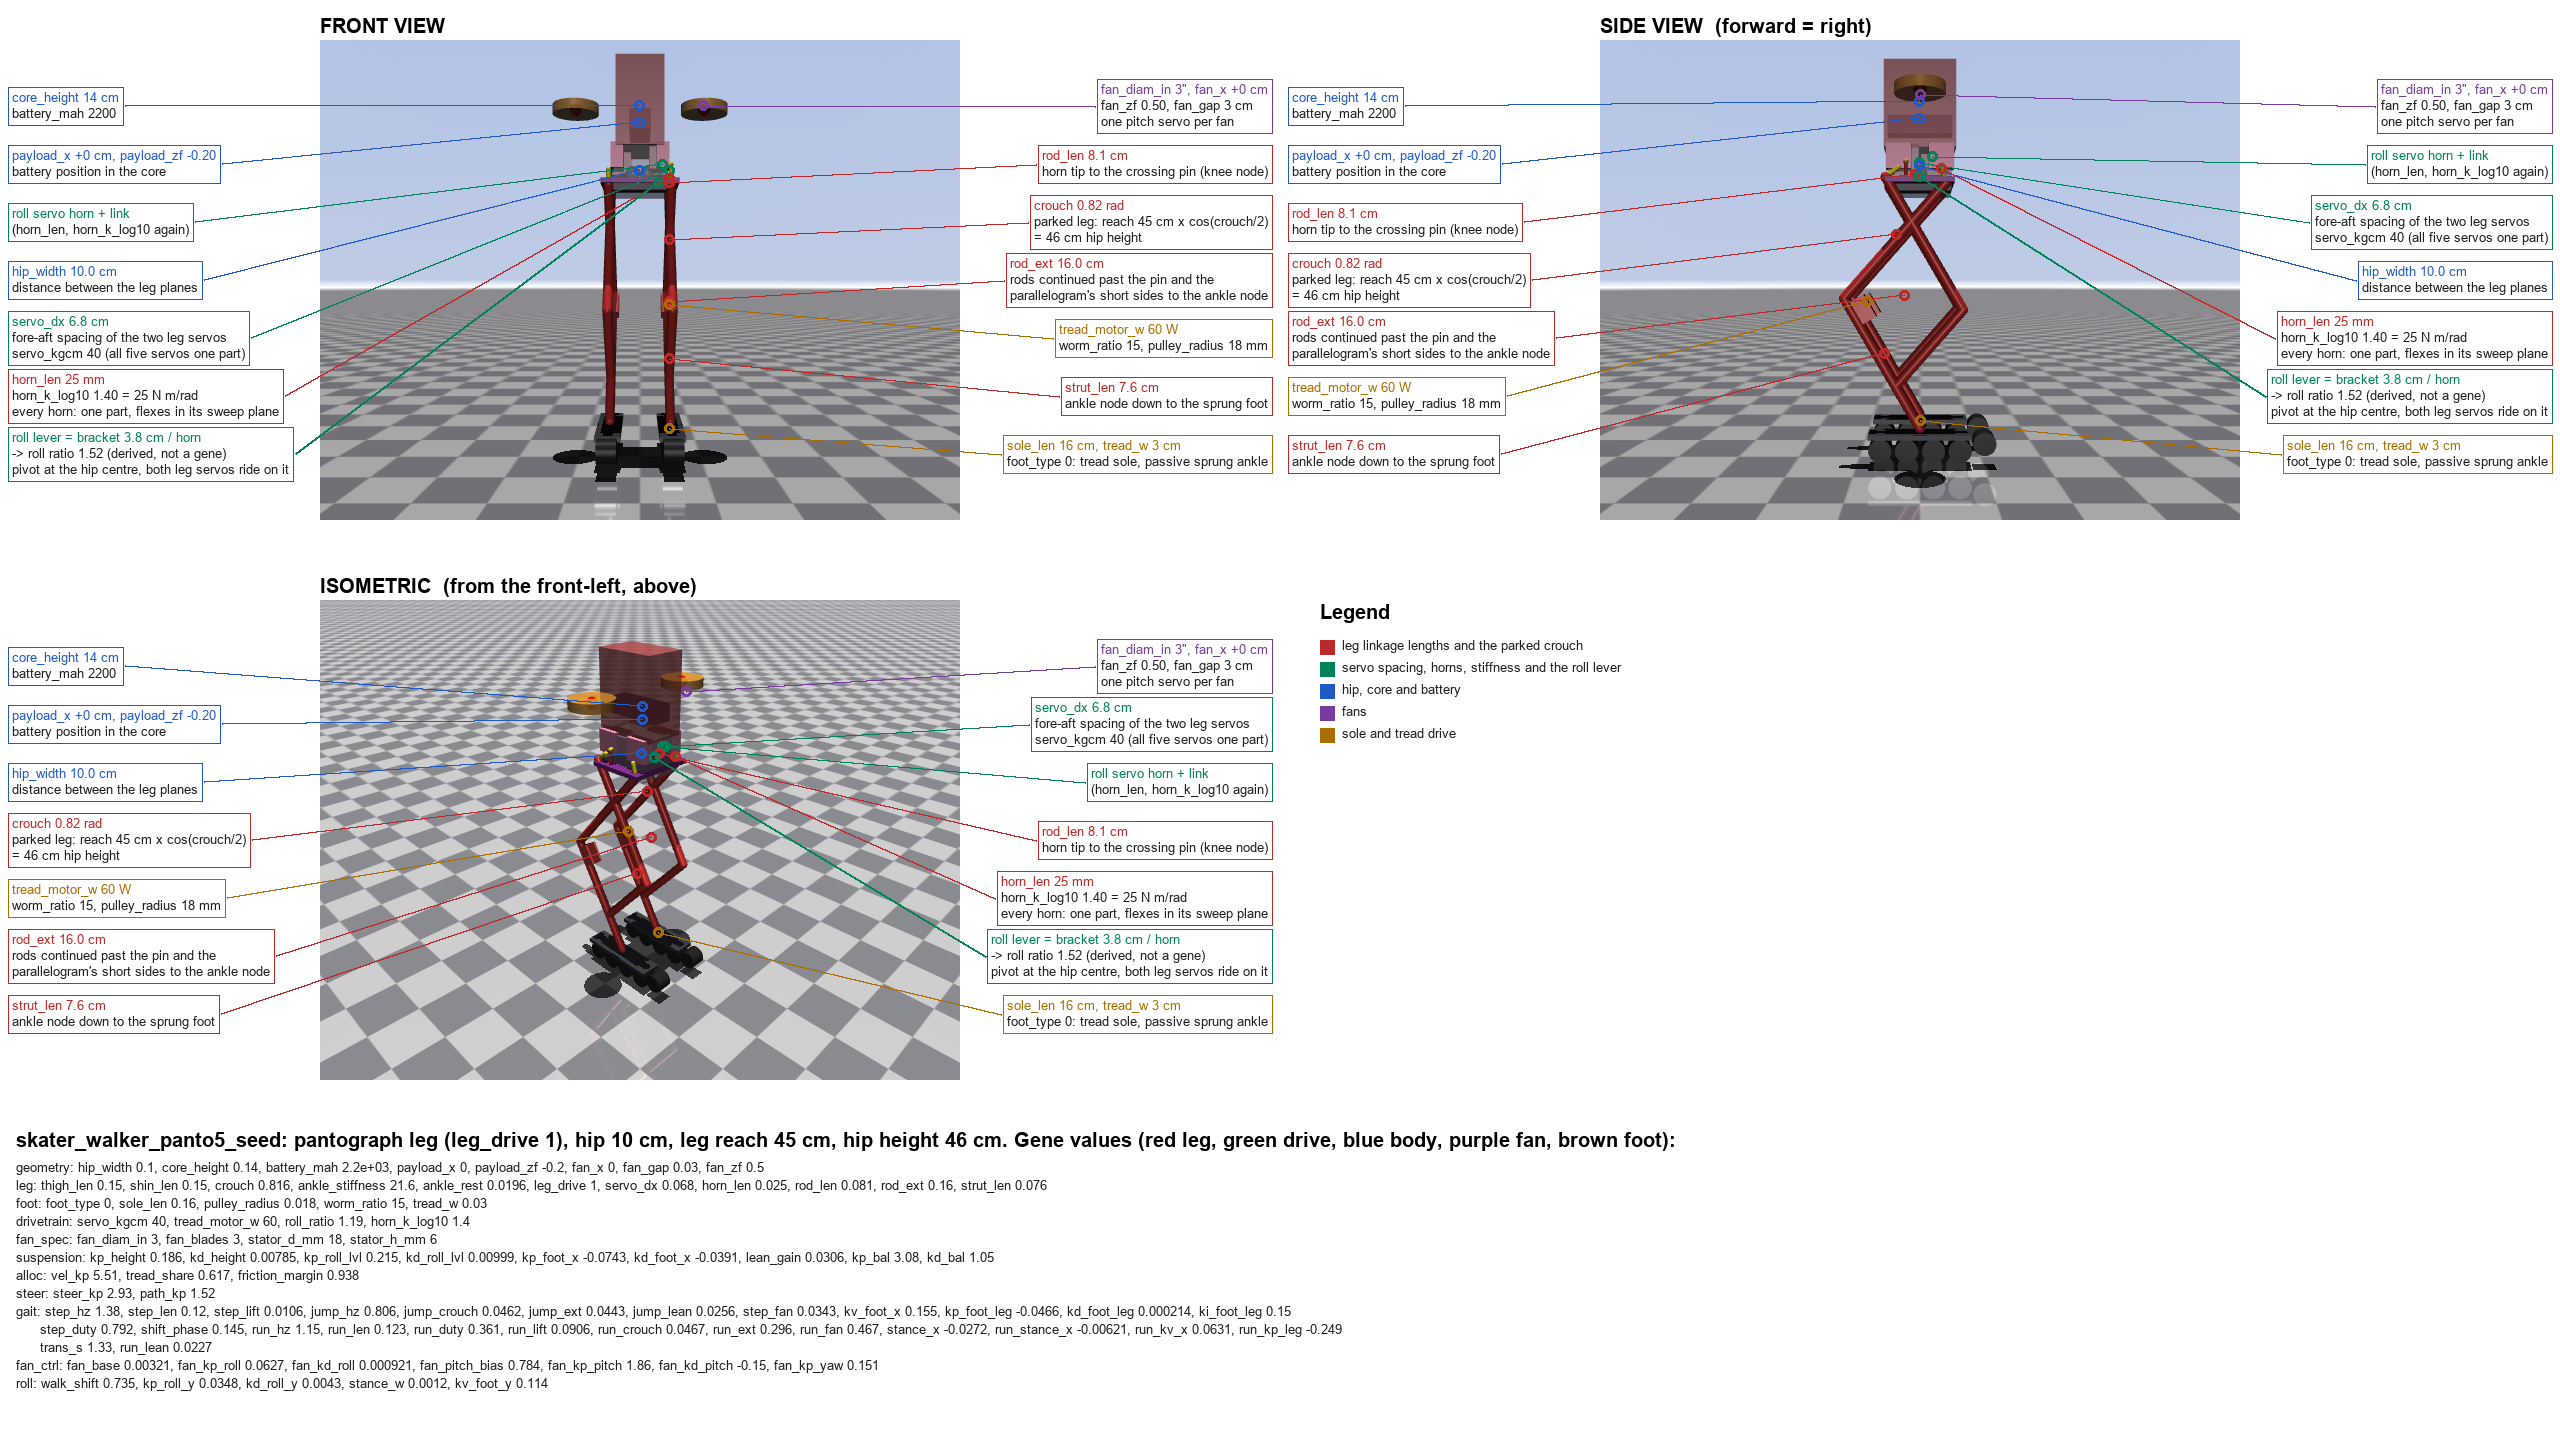
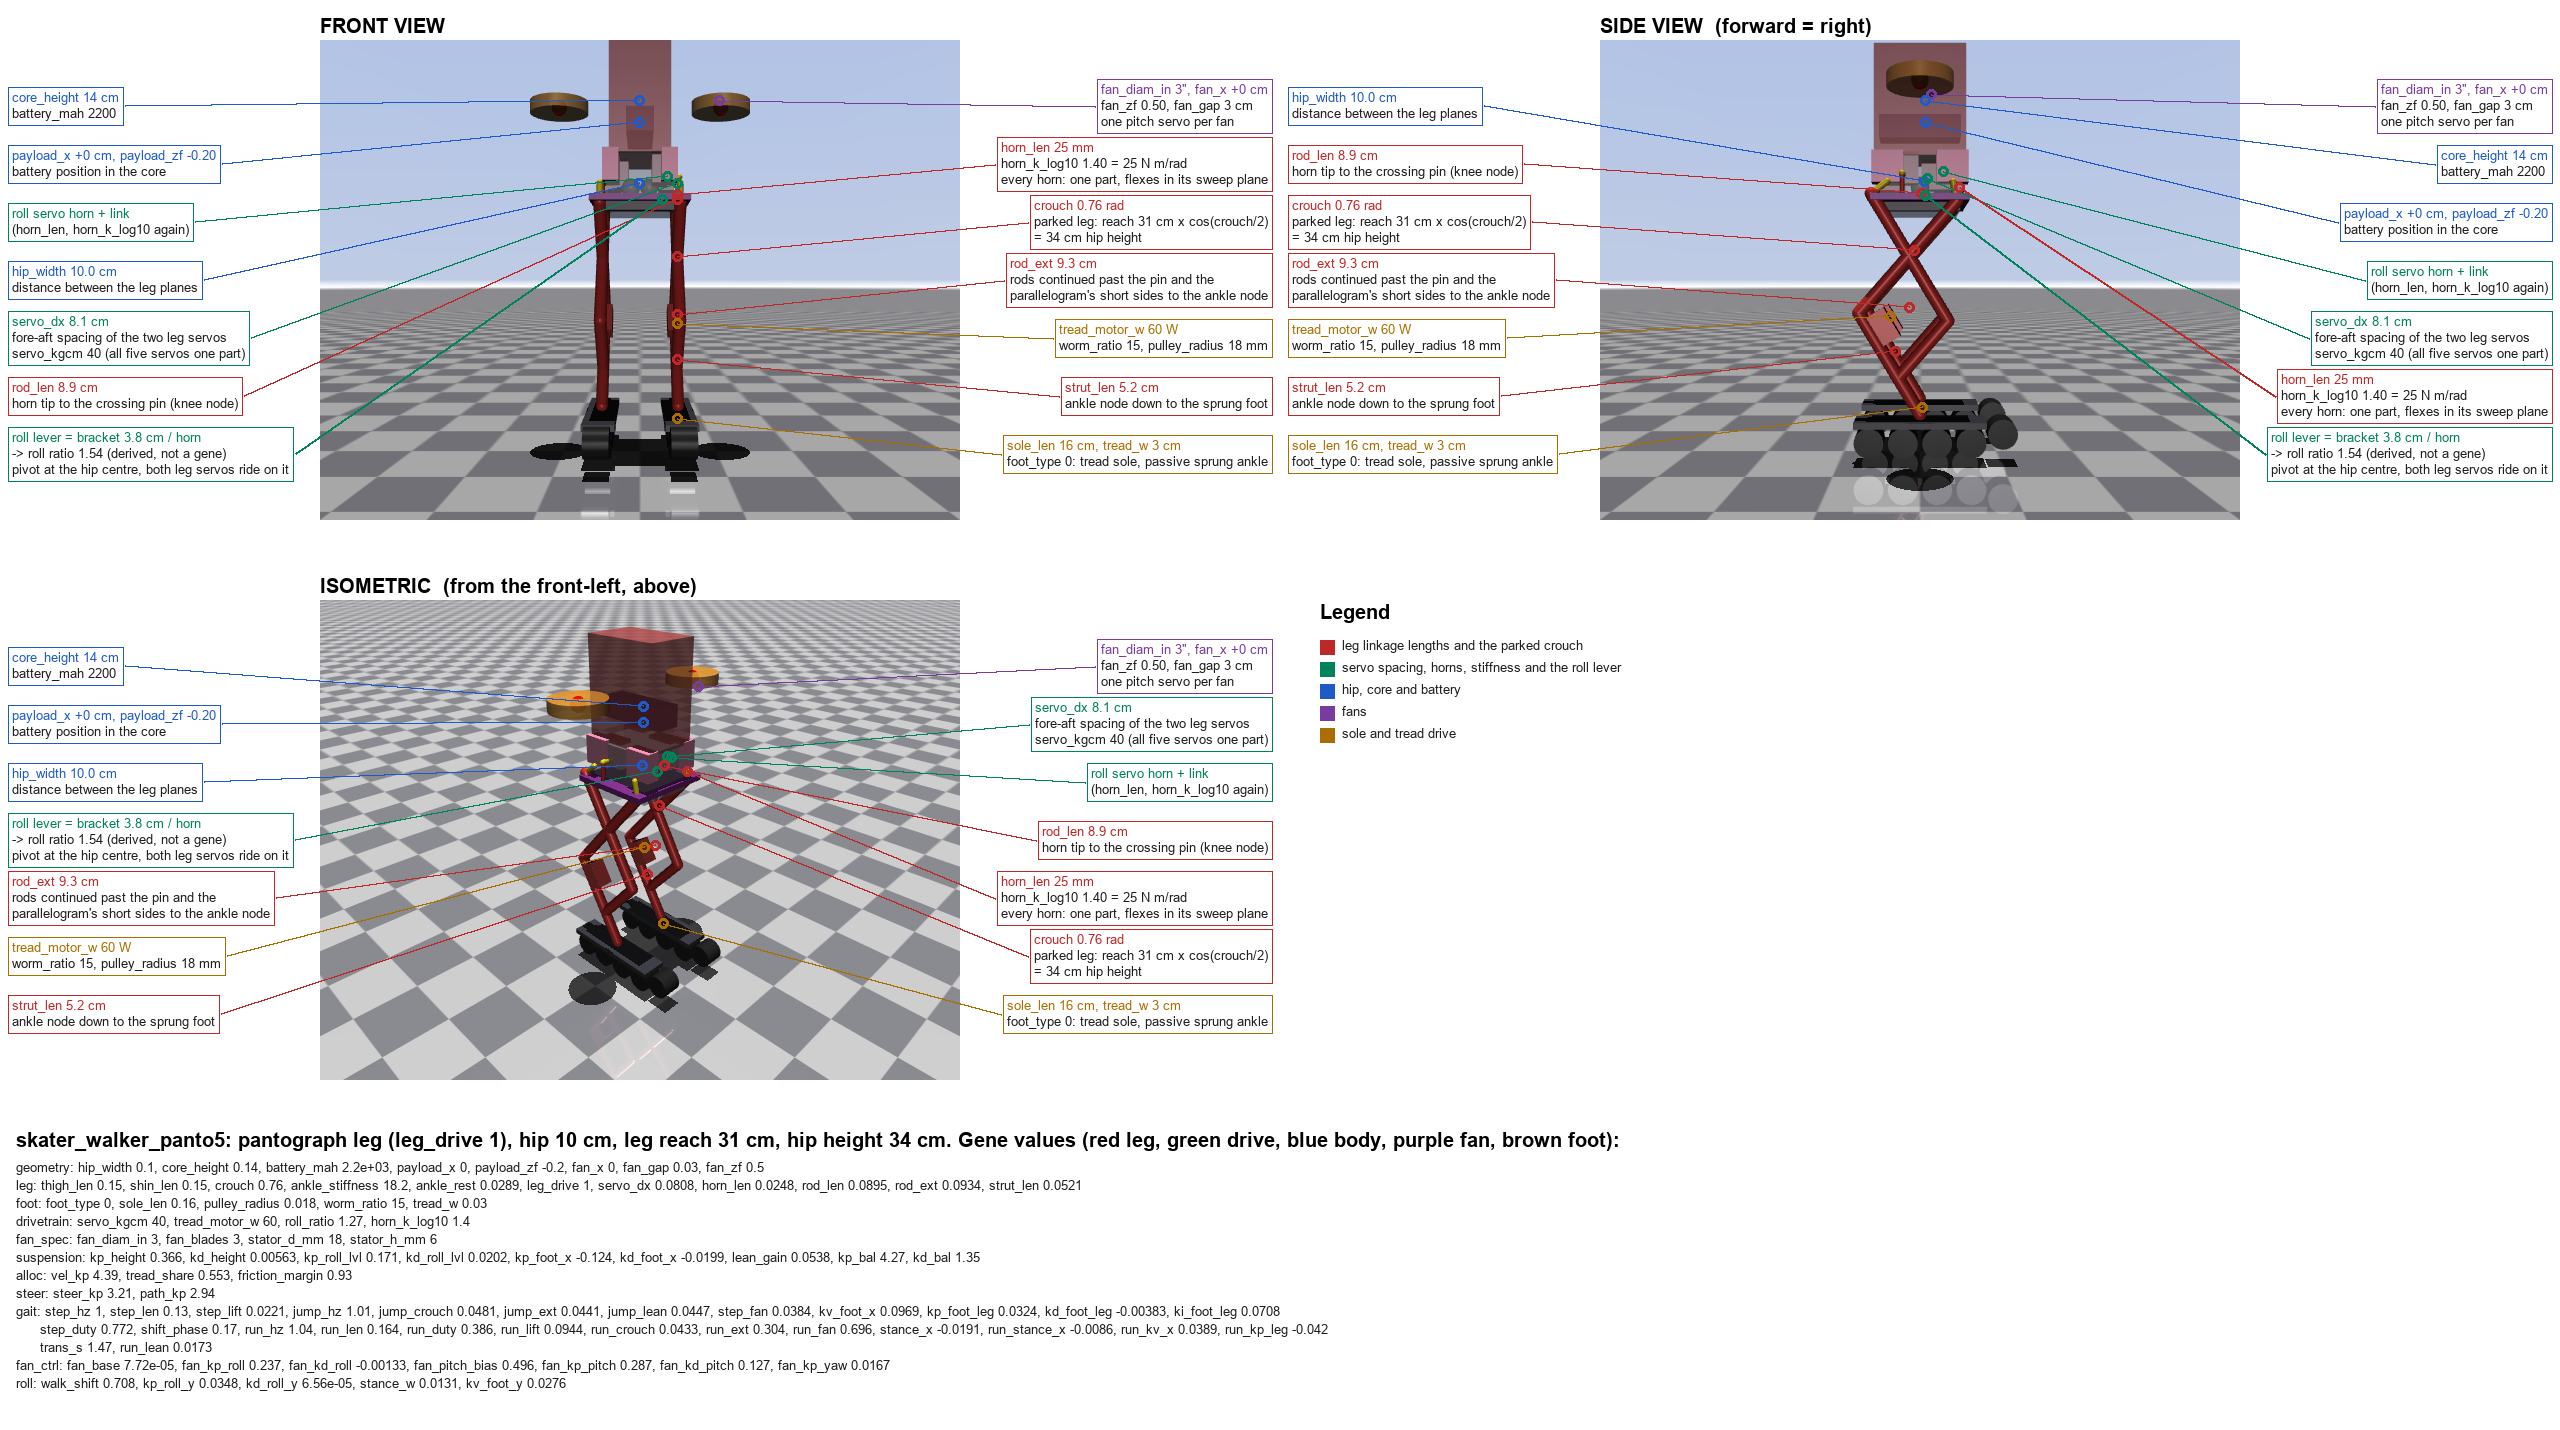
Round 5 on the 25 mm horn: 16 cm strides at 1 Hz on all four tilted starts, but the servo slew-saturated 62 % of the time; drawing of the round-5 walker

diff --git a/docs/skater_review.md b/docs/skater_review.md
@@ -149,6 +149,24 @@ for; a velocity integral in the controller is the alternative.
   one-lever result holds on this body too: the narrow hip is the roll fix,
   and `hip_width` 0.10 stays locked in later rounds (the wide hip's fitness
   came from the tilted-start seed, not from a better walk; check the winner).
+  The horn was then capped at 25 mm (a real servo horn; the lever ratio is
+  the rods' to find). Under the cap the 6 cm horn archetypes do not build;
+  a random re-search of the balance genes on a short-rod, long-extension
+  body gave `skater_walker_panto5_seed.json` (2.4 m in 12 s, 14.8 cm
+  strides, roll 3.0 deg, grace 0.37 on the two un-tilted starts, but it
+  falls on two of four tilted starts). Round 5 (`skater_walk_panto5.json`,
+  hip locked at 10 cm, horns soft, leg lengths and gait free) gives
+  `skater_walker_panto5.json`: the GA shortened the extensions (16 -> 9 cm)
+  and the strut, walks all four tilted starts, 1.9 m in 12 s with 15.8 cm
+  strides at 1.0 Hz (the longest, slowest walk yet), 3.8 cm of clearance,
+  roll 5.7 deg, fitness -0.16, but a leg servo at its slew limit 62 % of
+  the time and grace 0.20: with the shorter extensions each step is more
+  horn sweep, and the 7 rad/s servo is the limit. Against the 6 cm horn's
+  round 3 (fitness -0.02, grace 0.30, saturation 12 %) the 25 mm horn is
+  behind on everything but stride length; the cap turns the servo's speed,
+  not its torque, into the constraint. Next: a faster servo spec or the
+  gearing (longer extensions, which the leg-mass penalty fights) as a round
+  of its own.
   Open: the lower links' fore-aft
   reach is the horn's (a 3.5 cm horn cannot move the X 6 cm at a deep
   crouch, so the buildability check rejects it), the leg mass sits at 15 %
